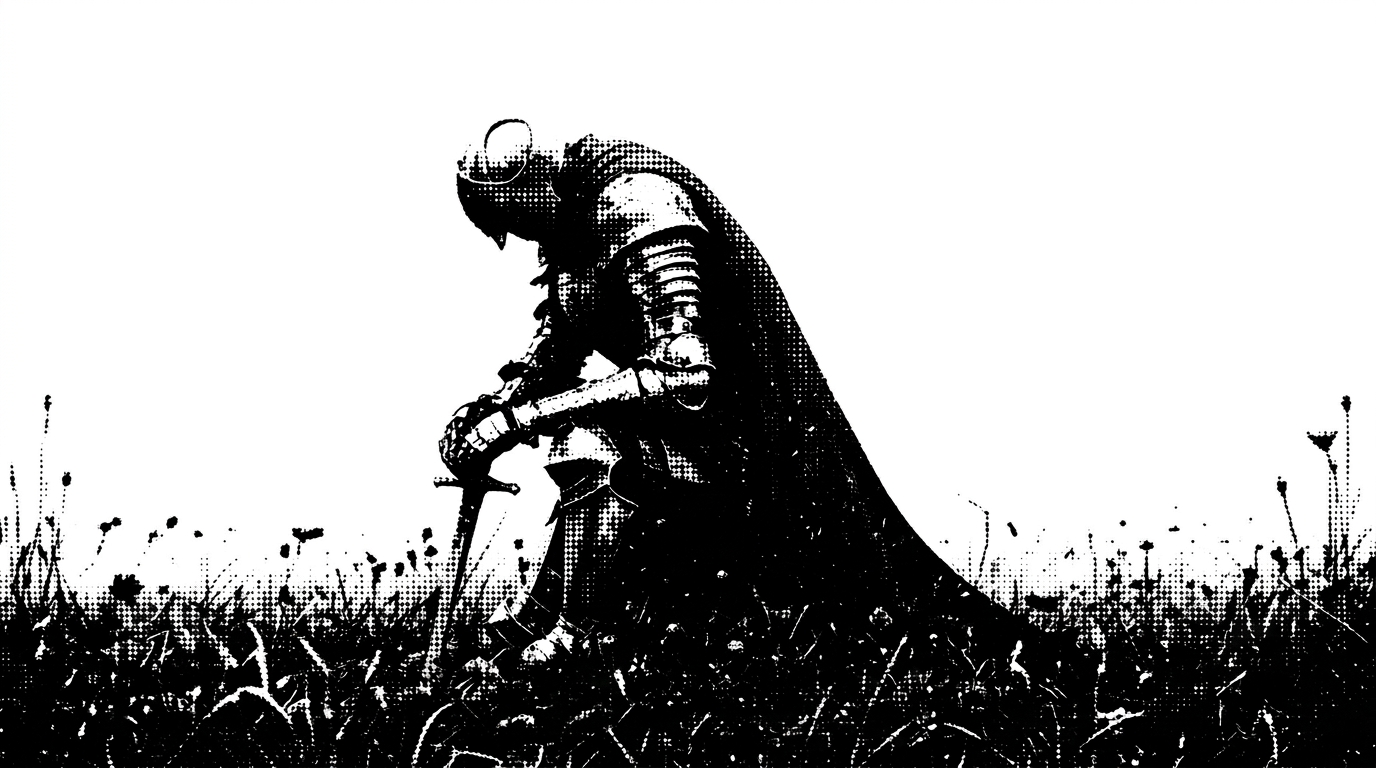
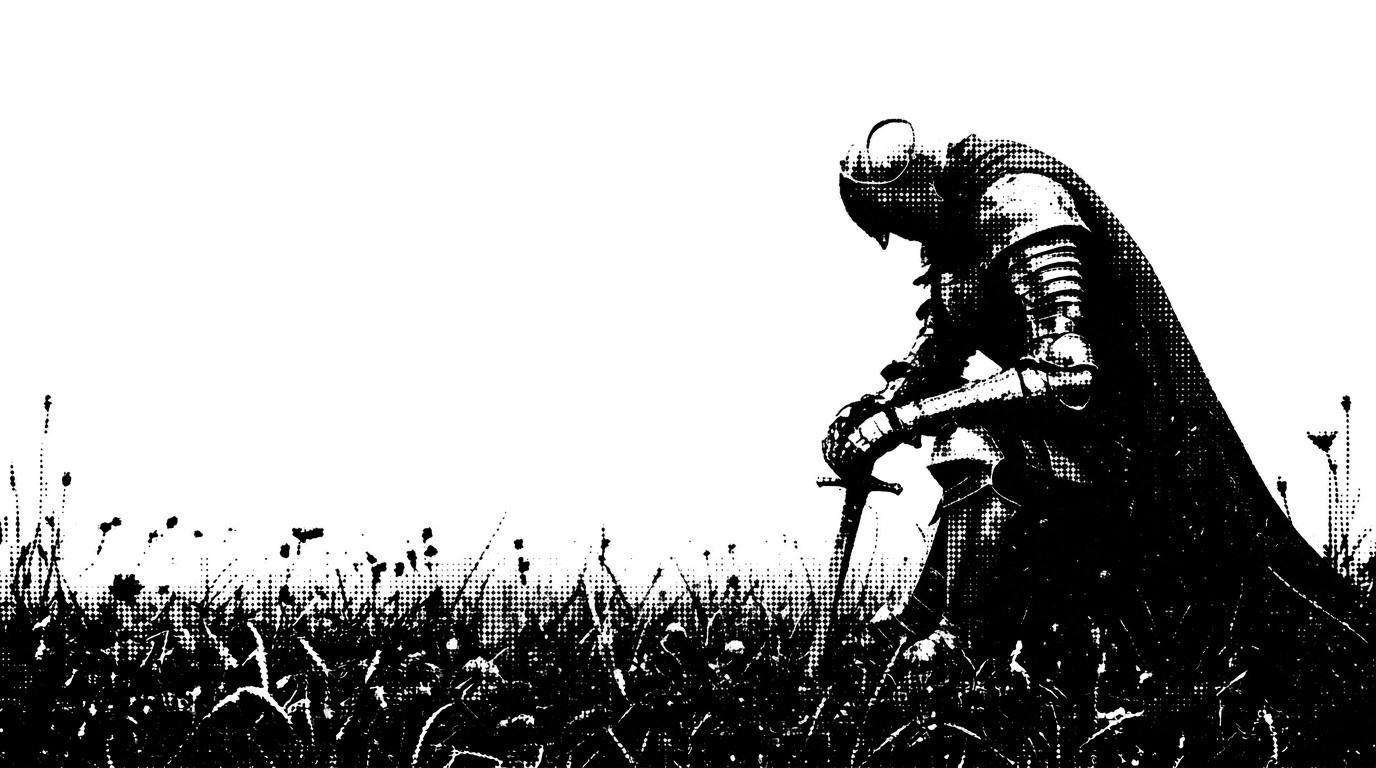
Swap the hero's field art for the knight-on-right, rose-field pair
The art now places the knight in the right two-thirds of the frame with
open ground on the left, so the pitch panel sits over plain field instead of
overlapping his figure — and the reveal image goes from a modest wildflower
bloom to a full rose field with petals blowing across the sky.

backgroundPosition moves from "center top" to "right top" to match: keeps
the knight in frame under `cover` on a narrow or unusually tall viewport
instead of cropping him out, and reliably leaves the left side clear for
the panel.

Changed region(s): [[0.0312, 0.1562, 1.0, 0.9062], [0.0, 0.75, 0.0312, 0.7812]]

diff --git a/src/components/Hero.tsx b/src/components/Hero.tsx
@@ -10,10 +10,10 @@ import heroKnightReveal from "@/imports/hero-knight-reveal.jpg"
 /** Editorial hero in the light "paper" world — the same typographic voice,
  * kicker eyebrow, and fade-up reveals as every section below it. A halftone
  * illustration fills the whole section as a background (see
- * ImageRevealBackground): a kneeling knight in a plain field by default,
- * the same field in bloom wherever the cursor's spotlight lands. The
- * headline's final word cycles through the studio's outcomes (convert / load
- * fast / …); reduced-motion holds it on the first word. */
+ * ImageRevealBackground): a kneeling knight in a plain field by default, the
+ * same field turned to blowing roses wherever the cursor's spotlight lands.
+ * The headline's final word cycles through the studio's outcomes (convert /
+ * load fast / …); reduced-motion holds it on the first word. */
 export function Hero() {
   const reduce = useReducedMotion()
   const { t } = useLang()
@@ -35,13 +35,15 @@ export function Hero() {
       style={{ background: "var(--color-paper)" }}
     >
       {/* The knight fills the whole section as a background layer — everything
-          else stacks on top of it. Position "center top" keeps the plain sky
-          in frame so the headline always lands on open space, even when
-          `cover` has to crop the field away at the bottom on a short viewport. */}
+          else stacks on top of it. The art places him in the right two-thirds
+          of the frame with open sky/field on the left, so "right top" keeps
+          him in frame under `cover` instead of cropping him out on a narrow
+          or unusually tall viewport, and leaves the left side clear for the
+          pitch panel to sit on plain ground rather than over his figure. */}
       <ImageRevealBackground
         baseImage={heroKnightBase}
         revealImage={heroKnightReveal}
-        backgroundPosition="center top"
+        backgroundPosition="right top"
         className="absolute inset-0"
       />
       {/* Same warm paper grain the rest of the light world carries. */}
